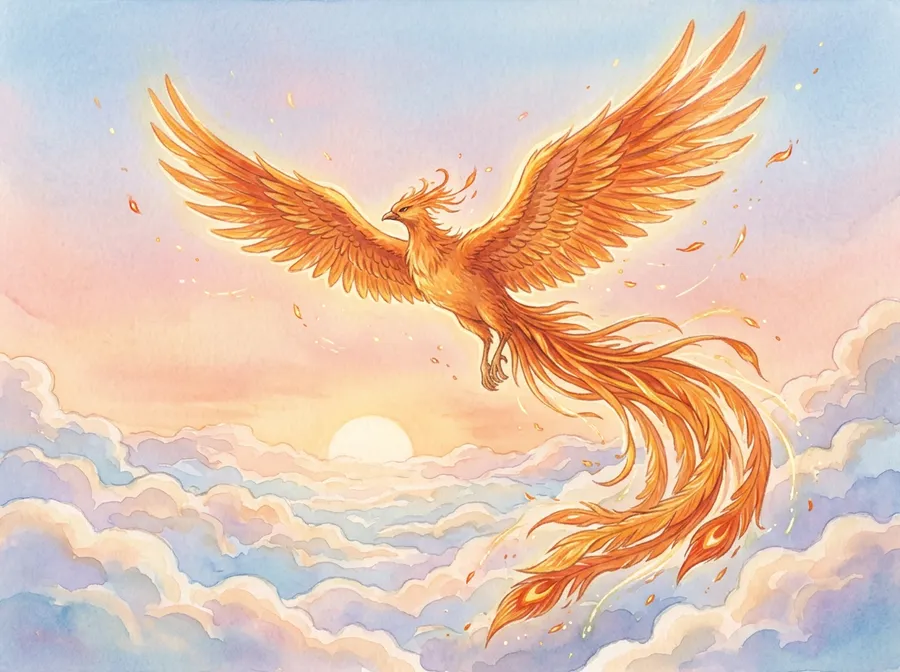
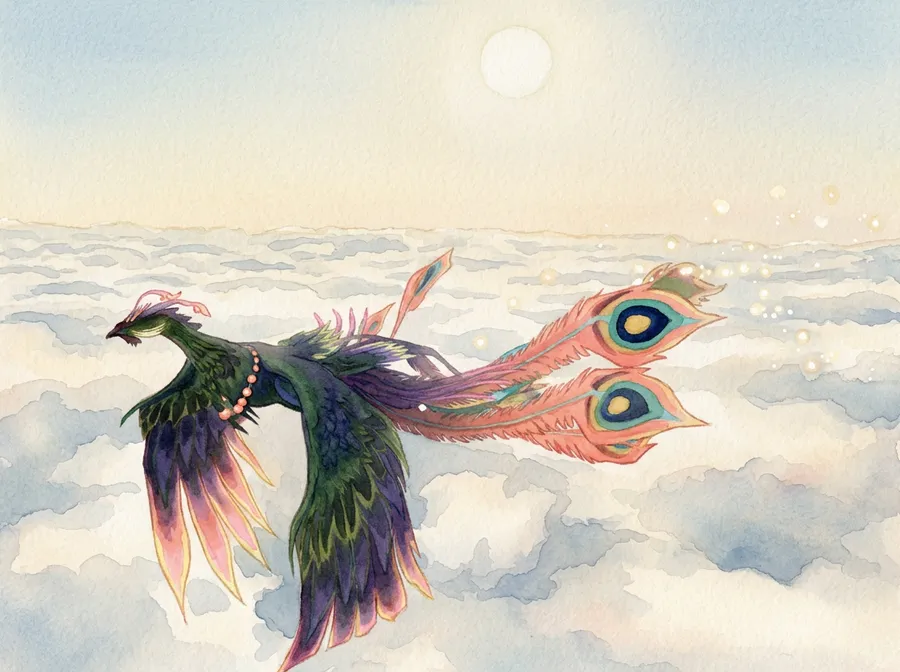
重画凤凰缩略图：按案例实际画面（墨绿紫羽、孔雀眼尾羽、云海）

diff --git a/docs/index.html b/docs/index.html
@@ -495,7 +495,7 @@ var im=new Image();im.onload=im.onerror=go;im.src='assets/'+({day:'hero',dusk:'h
         <div class="card-body"><h4>流浪地球<small>Earth Migration</small></h4><p>万台行星发动机点火，镜头从地表一路飞出太阳系，直到整条银河。可看 2 分半的电影自动播放，也能自由漫游。</p></div>
       </a>
       <a class="card reveal" style="--r:-.9deg" href="demos/phoenix-flame/">
-        <div class="thumb"><img src="assets/t-phoenix.webp" alt="一只火焰羽毛的凤凰展翅飞过黎明的云海" loading="lazy"><span class="tag">phoenix-flame</span><span class="play"><svg width="14" height="14" viewBox="0 0 14 14"><path d="M3 1.5l9 5.5-9 5.5z" fill="#3b3226"/></svg></span></div>
+        <div class="thumb"><img src="assets/t-phoenix.webp?v=2" alt="墨绿带紫的凤凰拖着两条孔雀眼长尾羽，飞过淡日下的云海" loading="lazy"><span class="tag">phoenix-flame</span><span class="play"><svg width="14" height="14" viewBox="0 0 14 14"><path d="M3 1.5l9 5.5-9 5.5z" fill="#3b3226"/></svg></span></div>
         <div class="card-body"><h4>凤凰<small>Phoenix Flame</small></h4><p>一只火焰凤凰在天空里振翅飞行，可以追着它飞或绕着它看，天色在黎明、白昼、黄昏和夜晚间切换。拖动看四周，连点它三下试试。</p></div>
       </a>
       <a class="card reveal" style="--r:1.1deg" href="demos/tension/">
